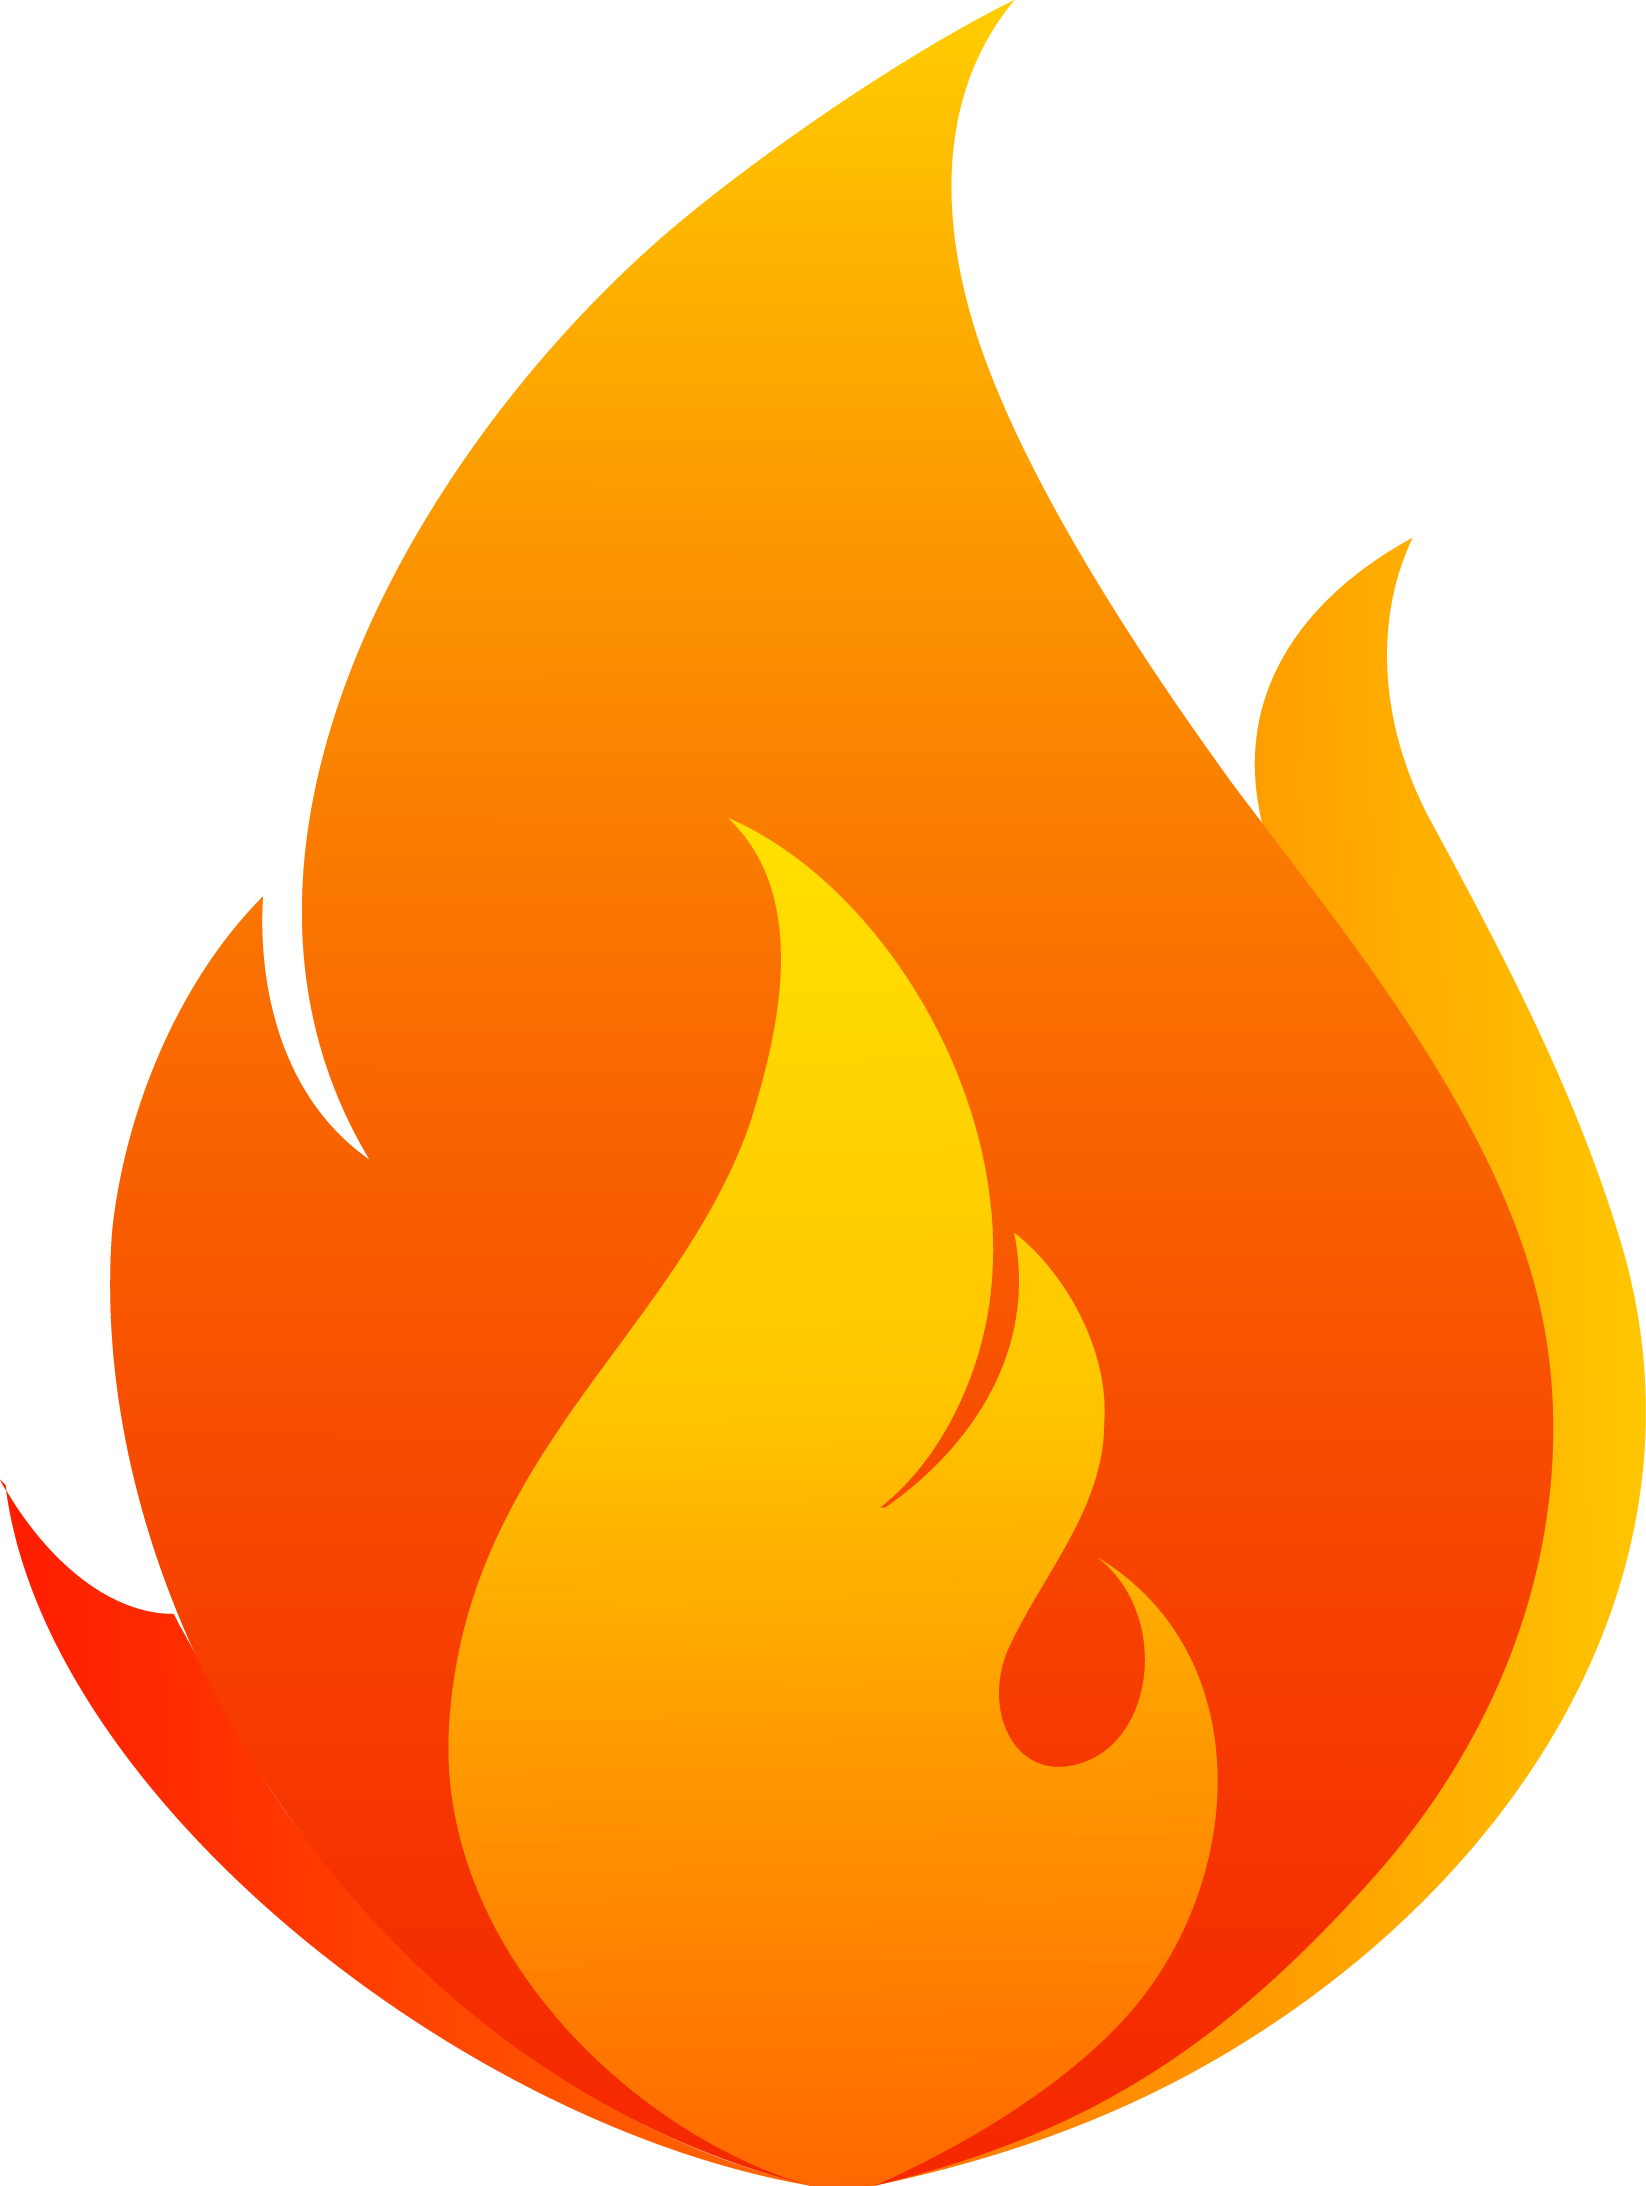
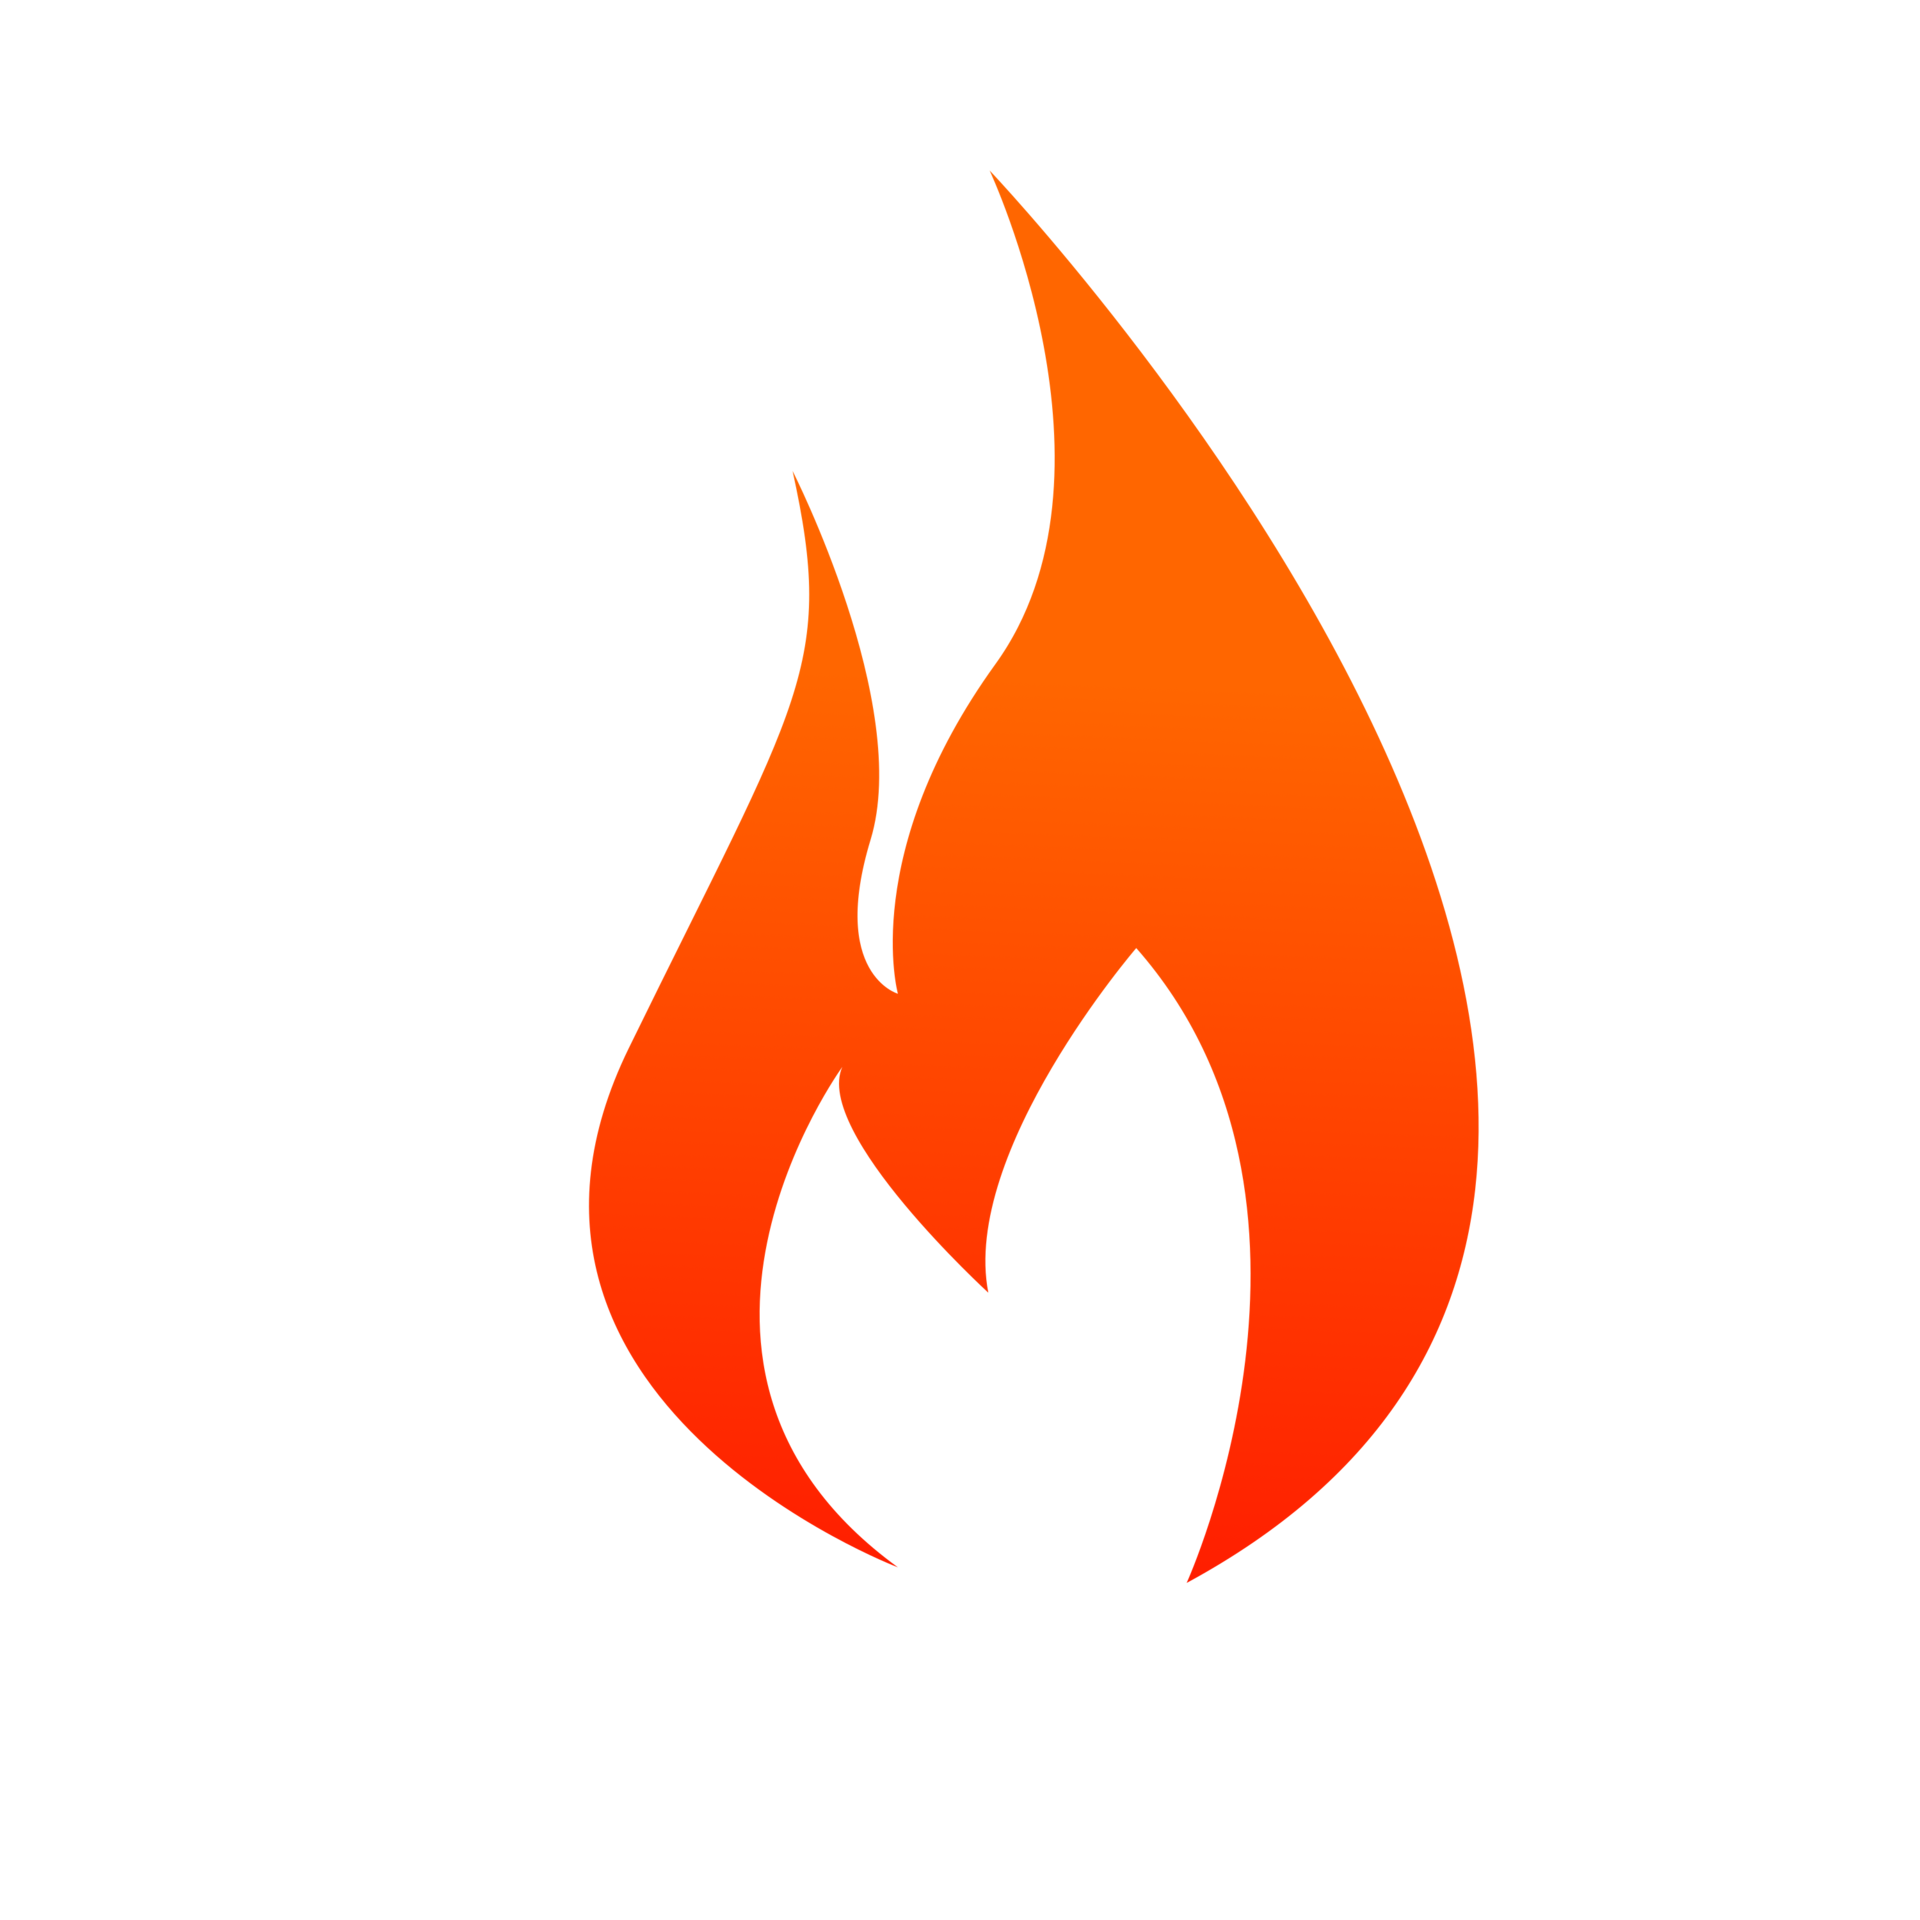
Updated text and footer

diff --git a/components/footer.tsx b/components/footer.tsx
@@ -1,4 +1,5 @@
 import Link from "next/link"
+import Image from "next/image" // Import the Image component
 import { Facebook, Twitter, Instagram, Linkedin, Github, Flame } from "lucide-react"
 
 export default function Footer() {
@@ -10,10 +11,16 @@ export default function Footer() {
             <Link href="/" className="flex items-center space-x-2 mb-4">
               <div className="rounded-full bg-accent p-1">
                 <div className="rounded-full bg-black p-1 flex items-center justify-center">
-                  <Flame className="h-6 w-6 text-primary soft-glow" />
+                  <Image
+                    src="/flame_icon.png" // Path to the image in the public folder
+                    alt="NeuroFlare Logo"
+                    width={24}
+                    height={24}
+                    className="soft-glow"
+                  />
                 </div>
               </div>
-              <span className="text-xl font-bold">TechForward</span>
+              <span className="text-xl font-bold">NeuroFlare</span>
             </Link>
             <p className="text-gray-400 mb-4">
               Empowering communities through technology education, access, and opportunity.
@@ -138,7 +145,7 @@ export default function Footer() {
 
         <div className="border-t border-border/40 mt-12 pt-8 flex flex-col md:flex-row justify-between items-center">
           <p className="text-gray-400 text-sm mb-4 md:mb-0">
-            &copy; {new Date().getFullYear()} TechForward. All rights reserved.
+            &copy; {new Date().getFullYear()} NeuroFlare. All rights reserved.
           </p>
           <div className="flex space-x-6">
             <Link href="#" className="text-gray-400 hover:text-primary transition-colors text-sm">
